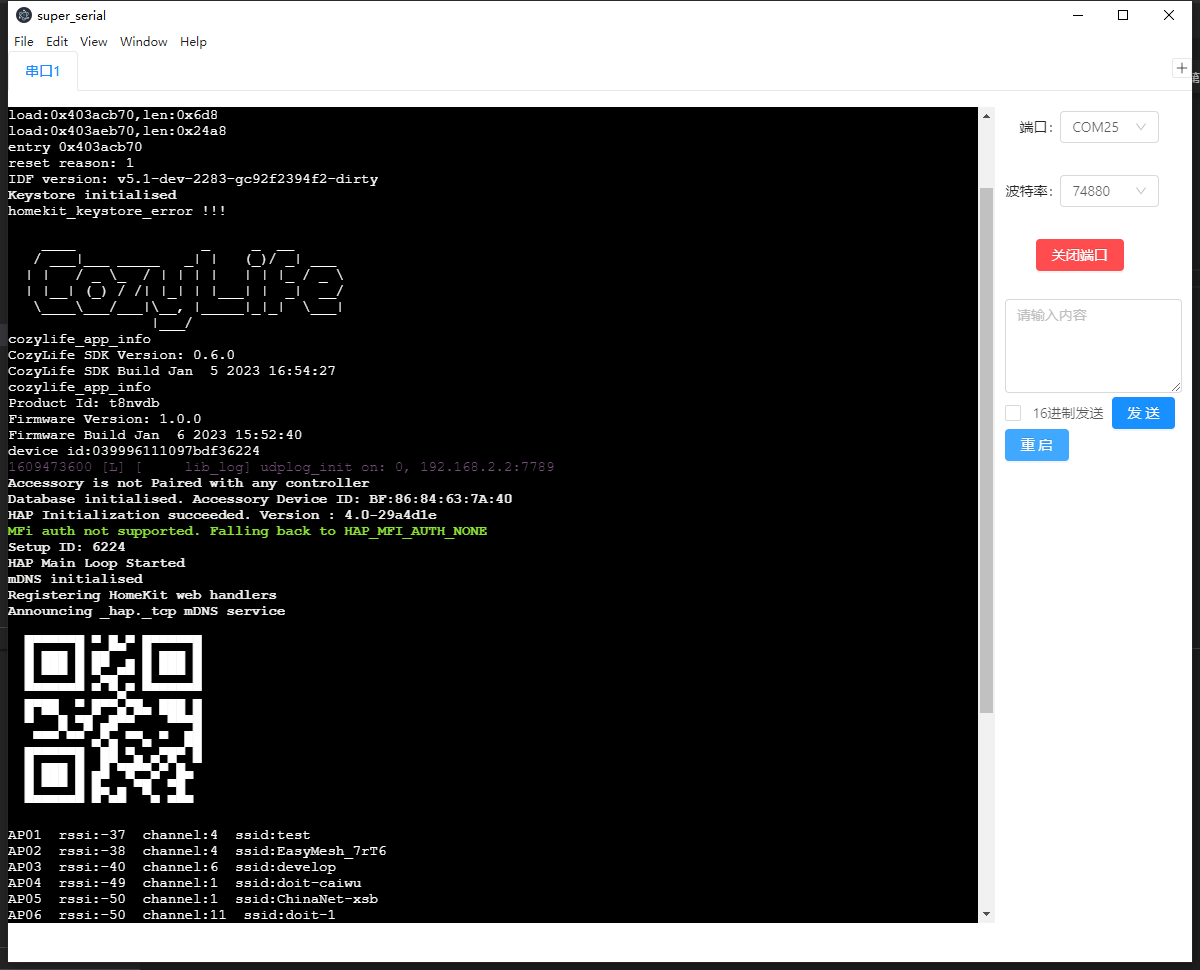
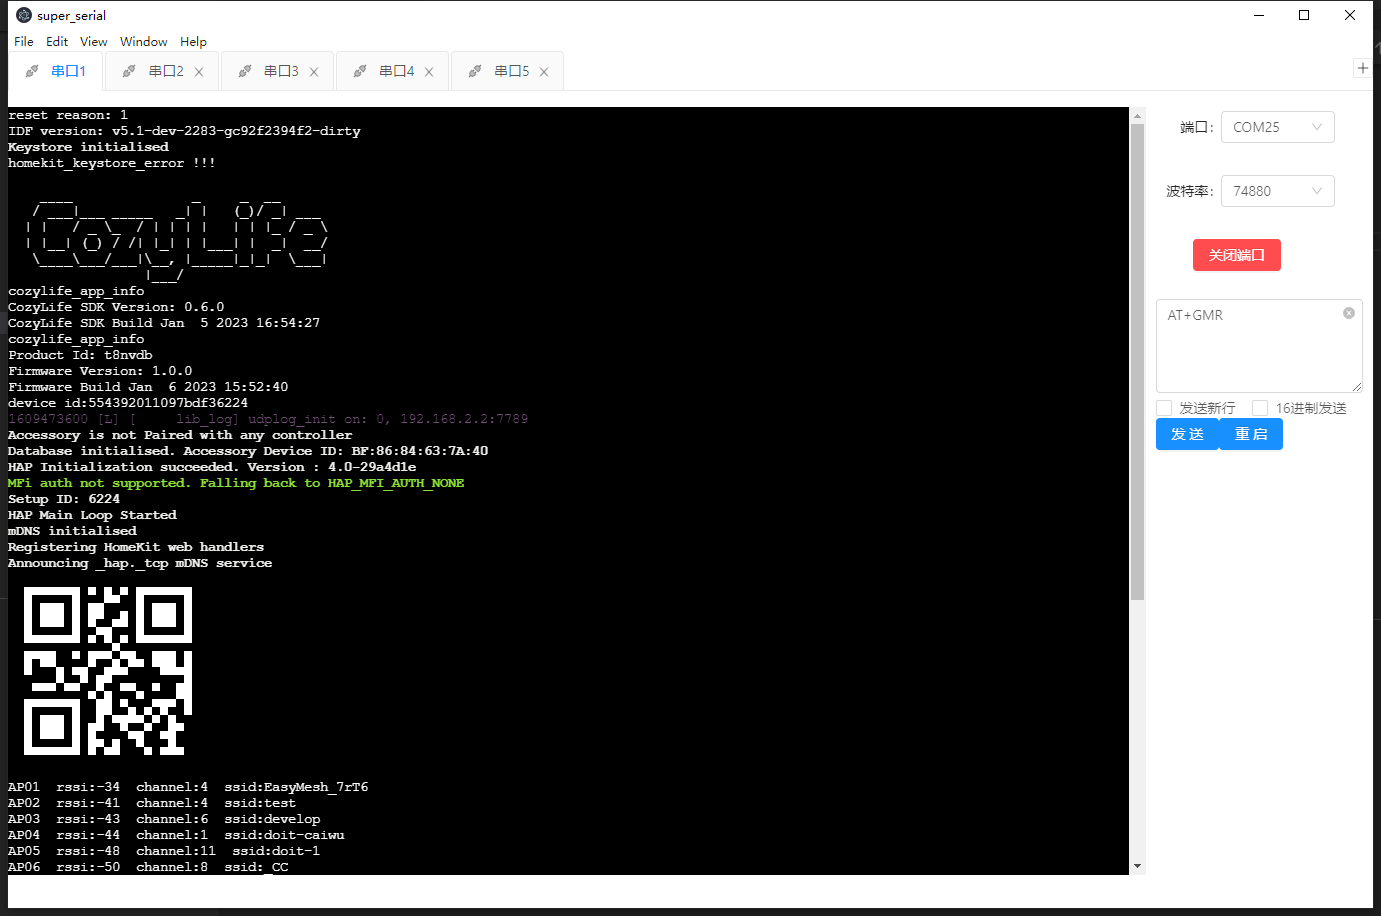
串口状态bug修改

Changed region(s): [[0.0, 0.0, 1.0, 1.0], [0.8017, 0.917, 0.8325, 0.9476], [0.185, 0.1834, 0.2158, 0.214]]

diff --git a/src/views/SerialTabContainer.vue b/src/views/SerialTabContainer.vue
@@ -3,9 +3,13 @@
     <a-tab-pane
       v-for="pane in panes"
       :key="pane.key"
-      :tab="pane.title"
       :closable="pane.closable"
     >
+      <span slot="tab">
+        <a-icon type="api" theme="twoTone" two-tone-color="gray"/>
+        <a-icon v-if="false" type="thunderbolt" theme="twoTone" two-tone-color="#52c41a" />
+        {{pane.title}}
+      </span>
       <Serial />
     </a-tab-pane>
   </a-tabs>

diff --git a/src/components/XtermTerminal.vue b/src/components/XtermTerminal.vue
@@ -117,8 +117,10 @@ export default {
     };
   },
   beforeDestroy() {
-    this.serial.port.port.close();
-    this.serial.port = null;
+    if (this.serial.port.isOpen != undefined && this.serial.port.isOpen !=false) {
+      this.serial.port.port.close();
+      this.serial.port = null;
+    }
   },
   methods: {
     tabDispose() {
